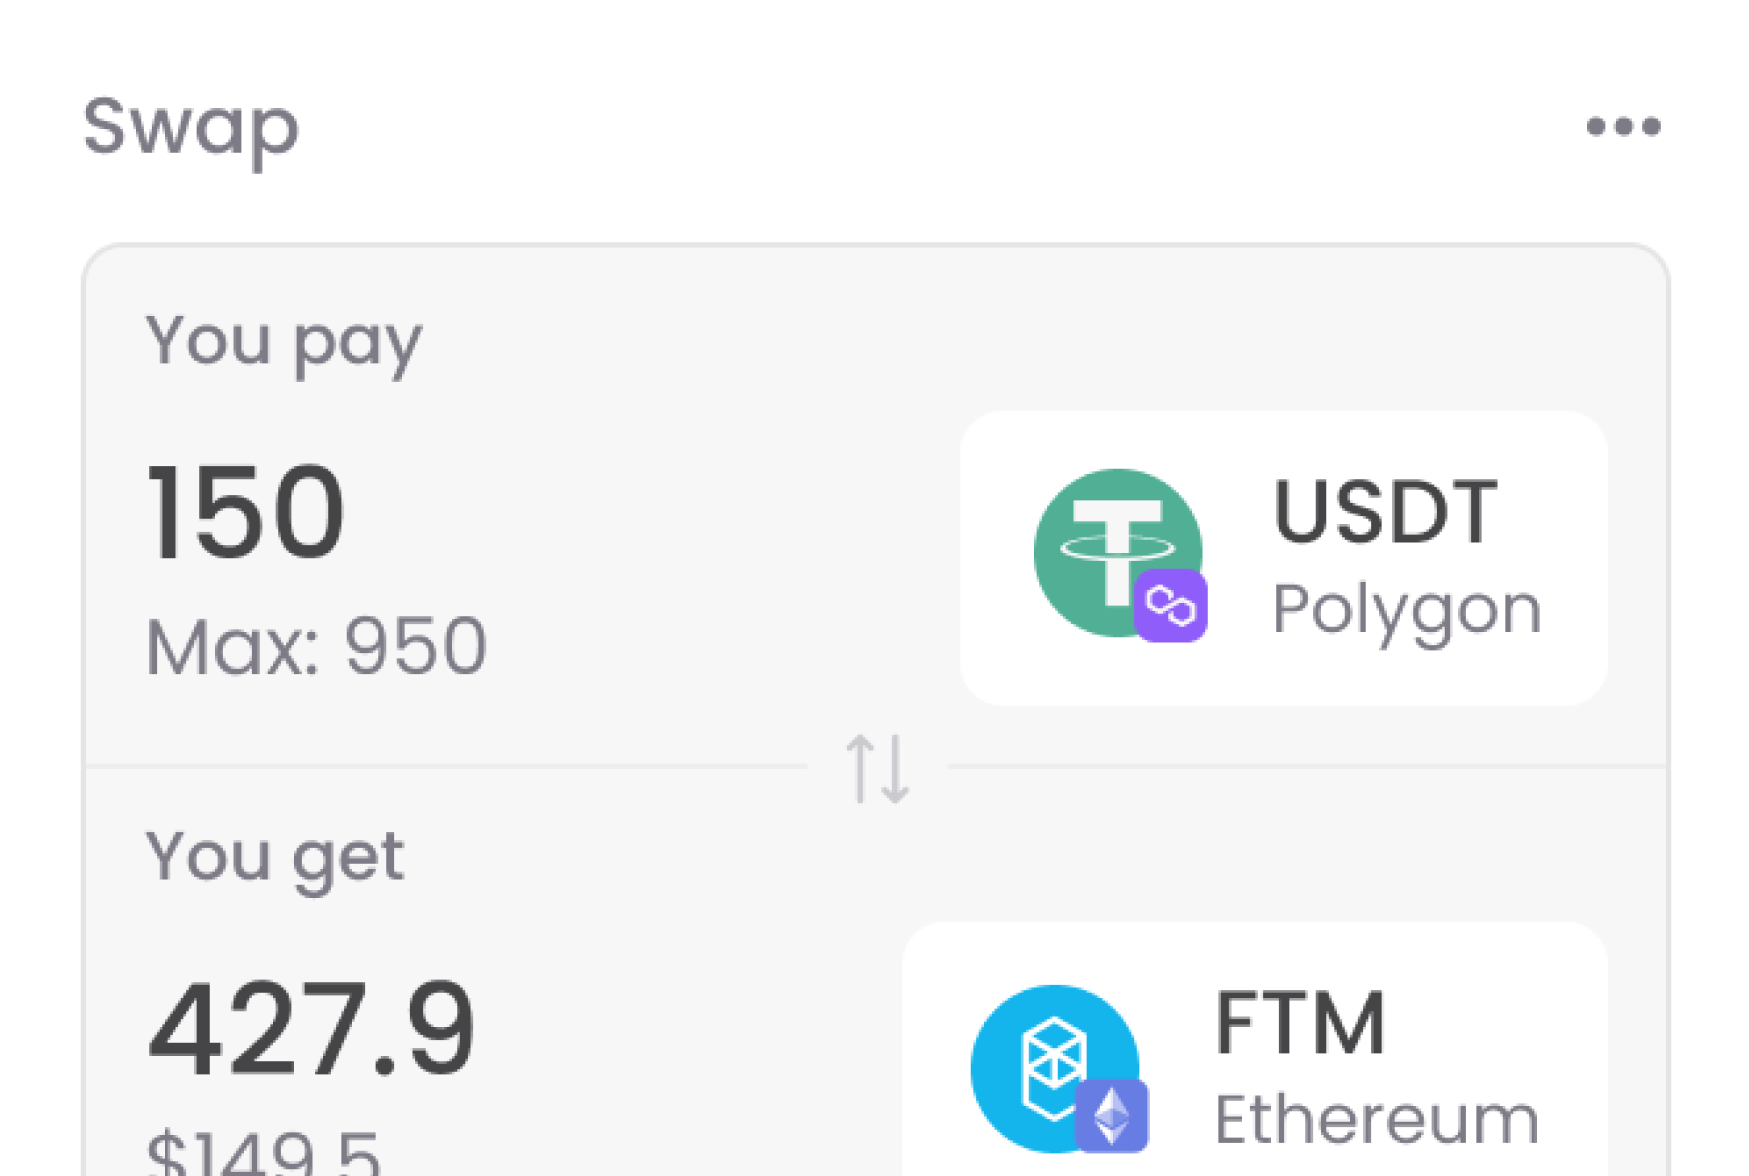
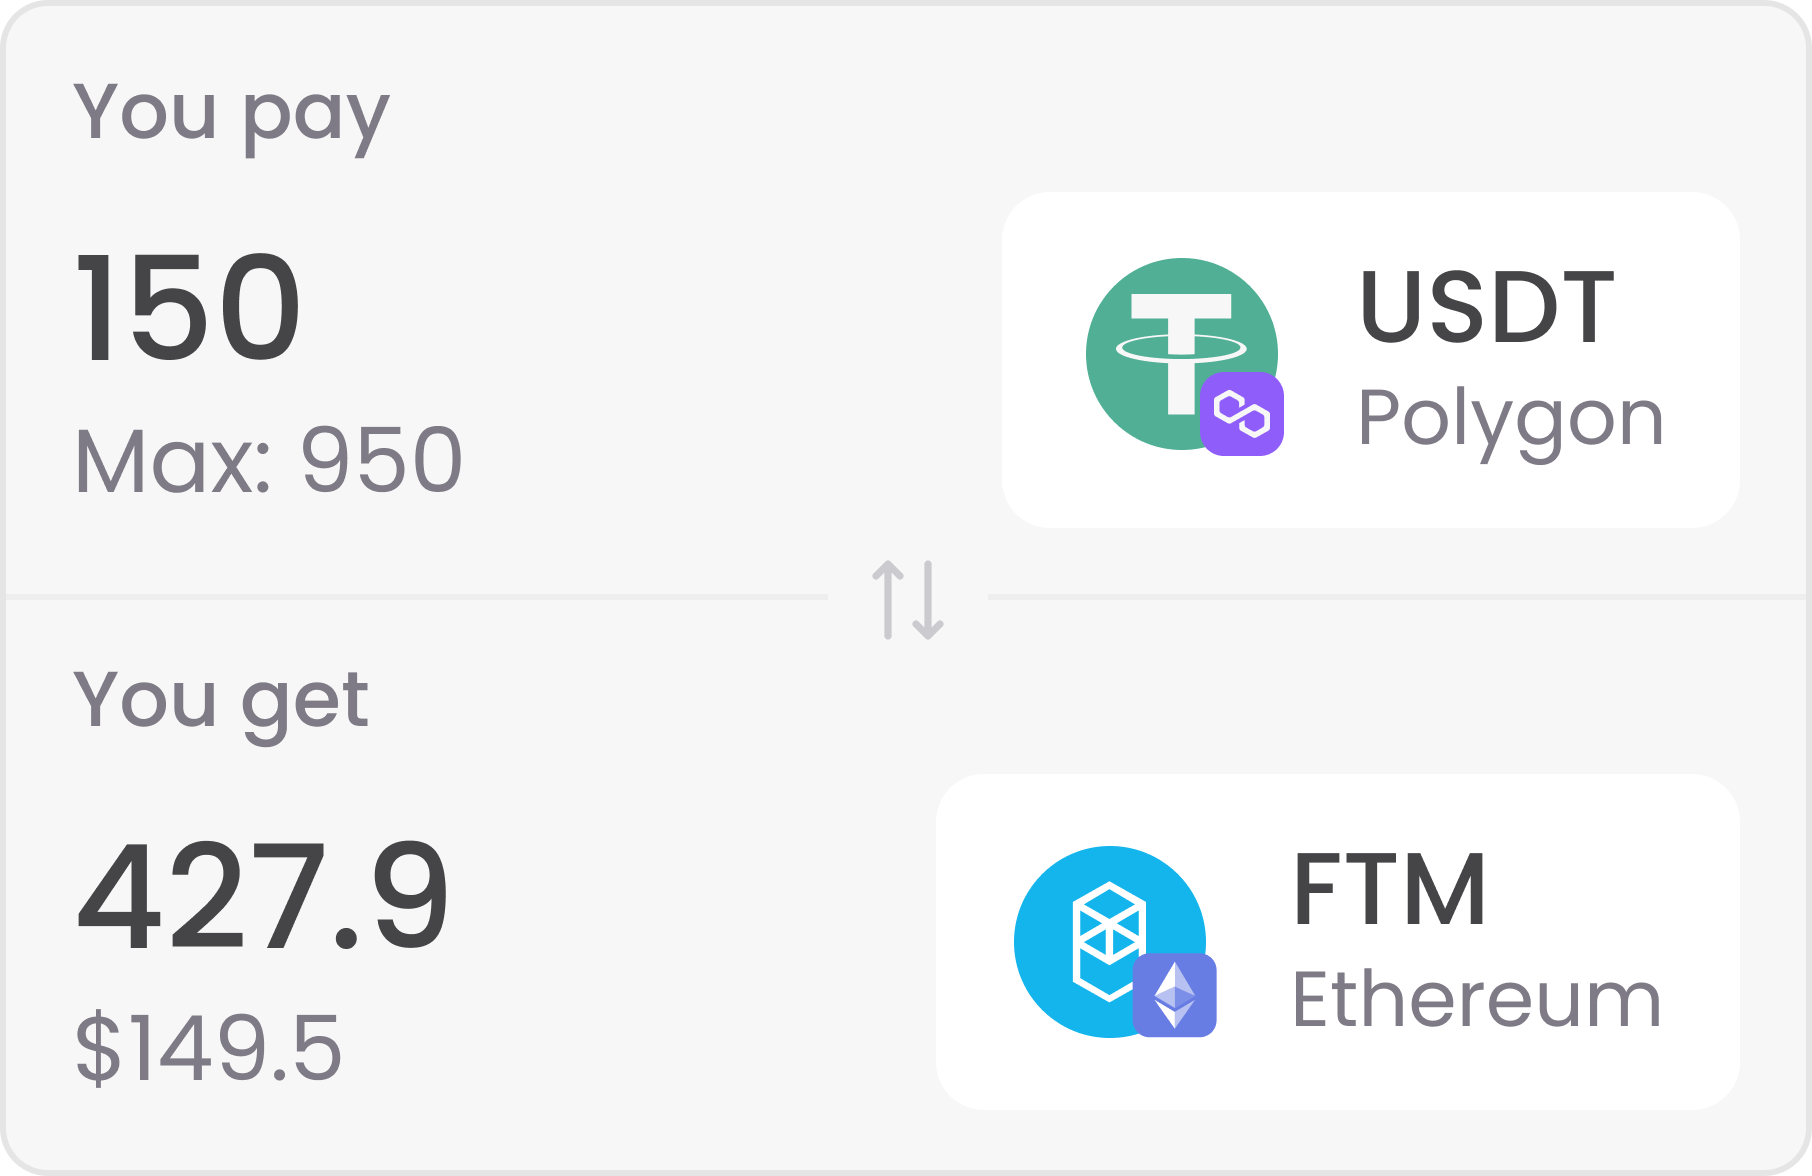
fix: last fixes

diff --git a/src/components/layout/BurgerMenu/BurgerMenu.tsx b/src/components/layout/BurgerMenu/BurgerMenu.tsx
@@ -6,9 +6,11 @@ import { MobileBreadcrumbs } from './MobileBreadcrumbs/MobileBreadcrumbs'
 import { useMediaQuery } from '../../../hooks/useMediaQueryHook'
 import burgerMenuIcon from '../../../assets/icons/burgerMenuIcon.svg'
 import { Button } from '../Button/Button'
+import { ContactModal } from '../../blocks/PartnersBlock/ContactModal/ContactModal'
 
 export function BurgerMenu() {
   const [isMenuOpened, setIsMenuOpened] = useState(false)
+  const [isModalOpened, setIsModalOpened] = useState(false)
   const isMobile = useMediaQuery('mobile')
 
   const handleKeyDown = (event: KeyboardEvent) => {
@@ -73,17 +75,23 @@ export function BurgerMenu() {
                 size={'sq-sm'}
                 className={classNames.listButton}
                 onClick={(e: MouseEvent) => {
-                  window.open('https://app.concero.io', '_blank')
+                  setIsModalOpened(true)
                   e.stopPropagation()
                 }}
               >
-                <IconArrowUpRight size={18} color={'var(--color-text-secondary)'} />
-                <h5>Launch app</h5>
+                <IconArrowUpRight size={18} color={'var(--color-text-primary)'} />
+                <h5>Join Waitlist</h5>
               </Button>
             </li>
           </ul>
         </animated.div>
       </animated.div>
+      <ContactModal
+        show={isModalOpened}
+        setShow={setIsModalOpened}
+        title={'Sign up to waitlist'}
+        isMessageNeeded={false}
+      />
     </div>
   )
 }

diff --git a/src/components/blocks/PrototypesBlock/PrototypesBlock.tsx b/src/components/blocks/PrototypesBlock/PrototypesBlock.tsx
@@ -2,8 +2,7 @@ import classNames from './PrototypesBlock.module.pcss'
 import { Block } from '../../layout/Block/Block'
 import { Prototype, PrototypeProps } from '../../layout/Prototype/Prototype'
 import dex from '../../../assets/images/dexAggregatorBlock/dex.png'
-import staking from '../../../assets/images/YieldBlock/stakingAggregaror.png'
-import Icosahedron from '../../../assets/images/common/Icosahedron.png'
+import staking from '../../../assets/images/YieldBlock/earn.png'
 
 const items = [
   {
@@ -30,13 +29,6 @@ const items = [
         title: 'Launch app',
         link: 'https://app.concero.io',
       },
-    ],
-  },
-  {
-    title: 'General feedback',
-    body: 'Please fill out the form to let us know your needs and requirements. This will greatly help us in building the next generation of products',
-    srcImg: Icosahedron,
-    buttons: [
       {
         title: 'Survey',
         link: 'https://app.concero.io',
@@ -47,7 +39,7 @@ const items = [
 
 export function PrototypesBlock() {
   return (
-    <>
+    <div className={classNames.container}>
       {items.map((item: PrototypeProps, index) => {
         return (
           <Block className={classNames.container} key={index.toString()}>
@@ -55,6 +47,6 @@ export function PrototypesBlock() {
           </Block>
         )
       })}
-    </>
+    </div>
   )
 }

diff --git a/src/components/layout/Footer/Footer.tsx b/src/components/layout/Footer/Footer.tsx
@@ -40,8 +40,7 @@ export function Footer() {
         <div className={classNames.columnContainer}>
           <h4 className={classNames.columnTitle}>Company</h4>
           <div className={classNames.column}>
-            <p className={'body2'}>What is Concero</p>
-            <p className={'body2'}>P2P Protocol</p>
+            <p className={'body2'}>Docs</p>
             <a href={'/brand-assets.zip'}>
               <p className={'body2'}>Brand assets</p>
             </a>
@@ -55,7 +54,6 @@ export function Footer() {
             <p className={'body2'}>Privacy Policy</p>
           </div>
         </div>
-
         {/*<div className={classNames.columnContainer}>*/}
         {/*  <div>*/}
         {/*    <MainButton size={'md'} onClick={() => setIsModalOpened(true)}>*/}

diff --git a/src/Navigator.tsx b/src/Navigator.tsx
@@ -1,5 +1,5 @@
 import { HomePage } from './components/pages/HomePage/HomePage'
-import { Route, Routes } from 'react-router'
+import { Navigate, Route, Routes } from 'react-router'
 import { BrowserRouter } from 'react-router-dom'
 import { routes } from './constants/routes'
 import { Header } from './components/layout/Header/Header'
@@ -15,7 +15,7 @@ export const Navigator = () => {
         <Routes>
           <Route path={routes.home} element={<HomePage />} />
           <Route path={routes.prototypes} element={<PrototypesPage />} />
-          <Route path={'/*'} element={<HomePage />} />
+          <Route path={'/*'} element={<Navigate to={routes.home} />} />
         </Routes>
         <Footer />
       </div>

diff --git a/src/components/layout/TopicPicker/TopicPicker.tsx b/src/components/layout/TopicPicker/TopicPicker.tsx
@@ -43,7 +43,12 @@ export function TopicPicker({ items, title, body, cardType = null }: TopicPicker
       </div>
       <div className={style.cardContainer}>
         {cardType === 'image' ? (
-          <ImageCard title={selectedItem.title} body={selectedItem.body} imgSrc={selectedItem.icon} />
+          <ImageCard
+            title={selectedItem.title}
+            body={selectedItem.body}
+            imgSrc={selectedItem.icon}
+            className={style.imageCard}
+          />
         ) : (
           <MainCard type={'big'} title={selectedItem.title} body={selectedItem.body} icon={selectedItem.icon} />
         )}

diff --git a/src/components/blocks/OurProductBlock/OurProductBlock.tsx b/src/components/blocks/OurProductBlock/OurProductBlock.tsx
@@ -1,7 +1,7 @@
 import { Block } from '../../layout/Block/Block'
 import { TopicPicker } from '../../layout/TopicPicker/TopicPicker'
-import swap from '../../../assets/images/common/swap.png'
-import earn from '../../../assets/images/common/earn.png'
+import swap from '../../../assets/images/dexAggregatorBlock/dex.png'
+import earn from '../../../assets/images//YieldBlock/earn.png'
 import track from '../../../assets/images/common/track.png'
 
 const items = [
@@ -11,7 +11,6 @@ const items = [
     body: 'Swap any assets on any chains in one click.',
     icon: swap,
   },
-
   {
     id: '2',
     title: 'Earn',

diff --git a/src/components/layout/Prototype/Prototype.tsx b/src/components/layout/Prototype/Prototype.tsx
@@ -37,7 +37,7 @@ export function Prototype({ title, body, srcImg, buttons }: PrototypeProps) {
         </div>
       </div>
       <div className={classNames.rightSideContainer}>
-        <Card>
+        <Card className={classNames.cardContainer}>
           <div className={classNames.imgContainer}>
             <img src={srcImg} />
           </div>
